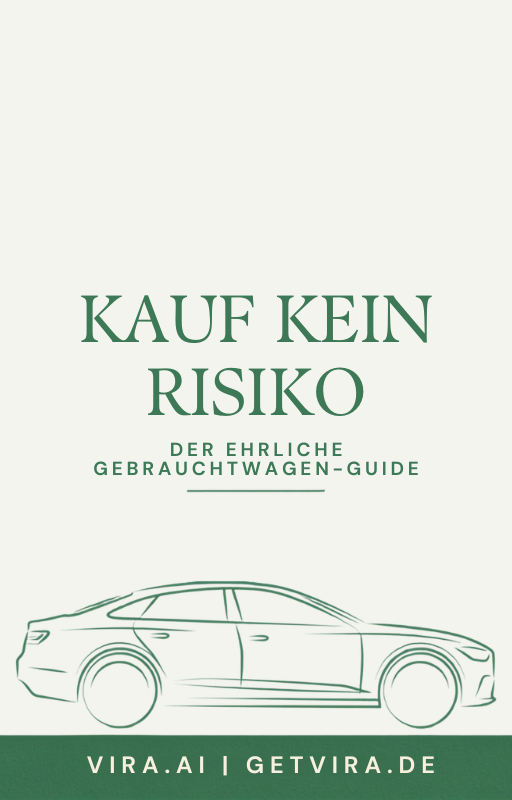
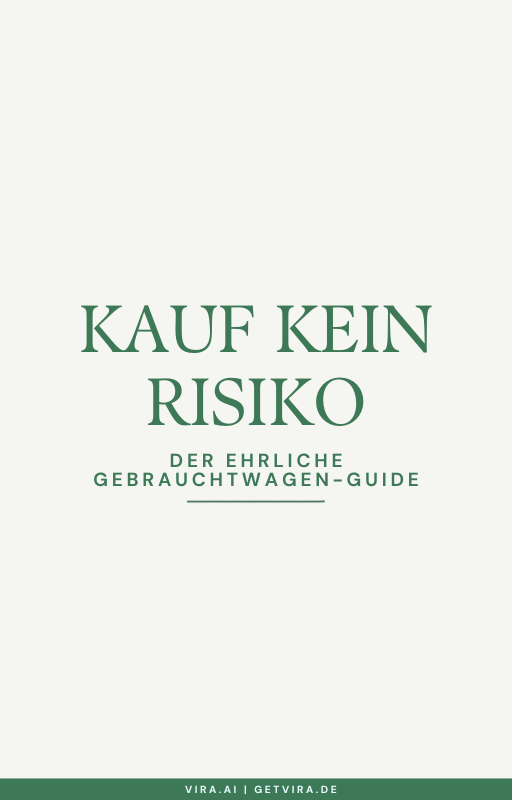
E-Book 2 "Dein erstes Auto" live + Cover-Redesign
- dein-erstes-auto aus COMING_SOON_IDS entfernt -> kaufbar (14,99 EUR)
- echtes Cover cover-ebook2.png verdrahtet, SVG-Teaser nur noch Fallback
- Cover 1 im neuen einheitlichen Stil ersetzt (vom Betreiber geliefert)

Changed region(s): [[0.0, 0.7188, 1.0, 1.0], [0.1562, 0.3438, 0.8438, 0.6562], [0.0938, 0.8125, 0.125, 0.8438]]

diff --git a/src/components/EbookView.tsx b/src/components/EbookView.tsx
@@ -8,7 +8,7 @@ import {
 
 // ── E-Book Cover — inline SVG, skaliert via viewBox auf jede Containergröße ──
 
-const COMING_SOON_IDS = new Set(['dein-erstes-auto', 'elektro-oder-verbrenner'])
+const COMING_SOON_IDS = new Set(['elektro-oder-verbrenner'])
 
 function EbookCover({
   id,
@@ -62,7 +62,19 @@ function EbookCover({
     )
   }
 
-  // Book 2: "Dein erstes Auto" — Bald erhältlich, grüner Teaser mit Sanduhr
+  // Book 2: echtes Cover-Bild, SVG-Teaser als Fallback
+  if (id === 'dein-erstes-auto' && !imgFailed) {
+    return (
+      <img
+        src="/ebooks/cover-ebook2.png"
+        alt="Dein erstes Auto"
+        style={{ width: '100%', height: '100%', objectFit: 'cover', display: 'block' }}
+        onError={() => setImgFailed(true)}
+      />
+    )
+  }
+
+  // Book 2 SVG-Fallback (falls Bild fehlt)
   if (id === 'dein-erstes-auto') {
     return (
       <svg viewBox="0 0 200 300" xmlns="http://www.w3.org/2000/svg" width="100%" height="100%" style={{ display: 'block' }}>
